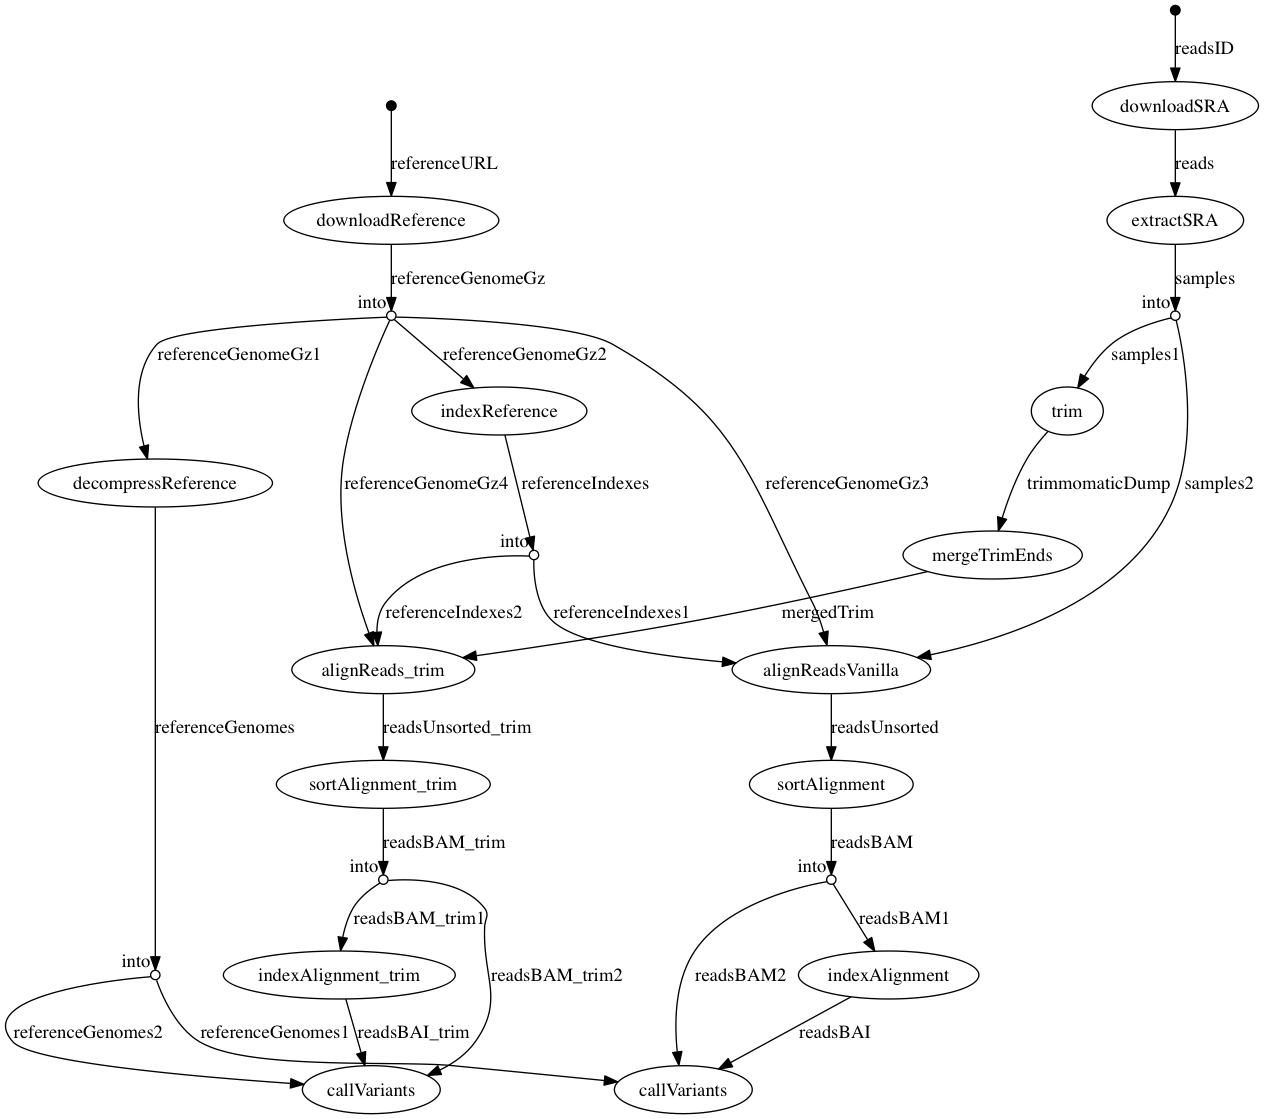
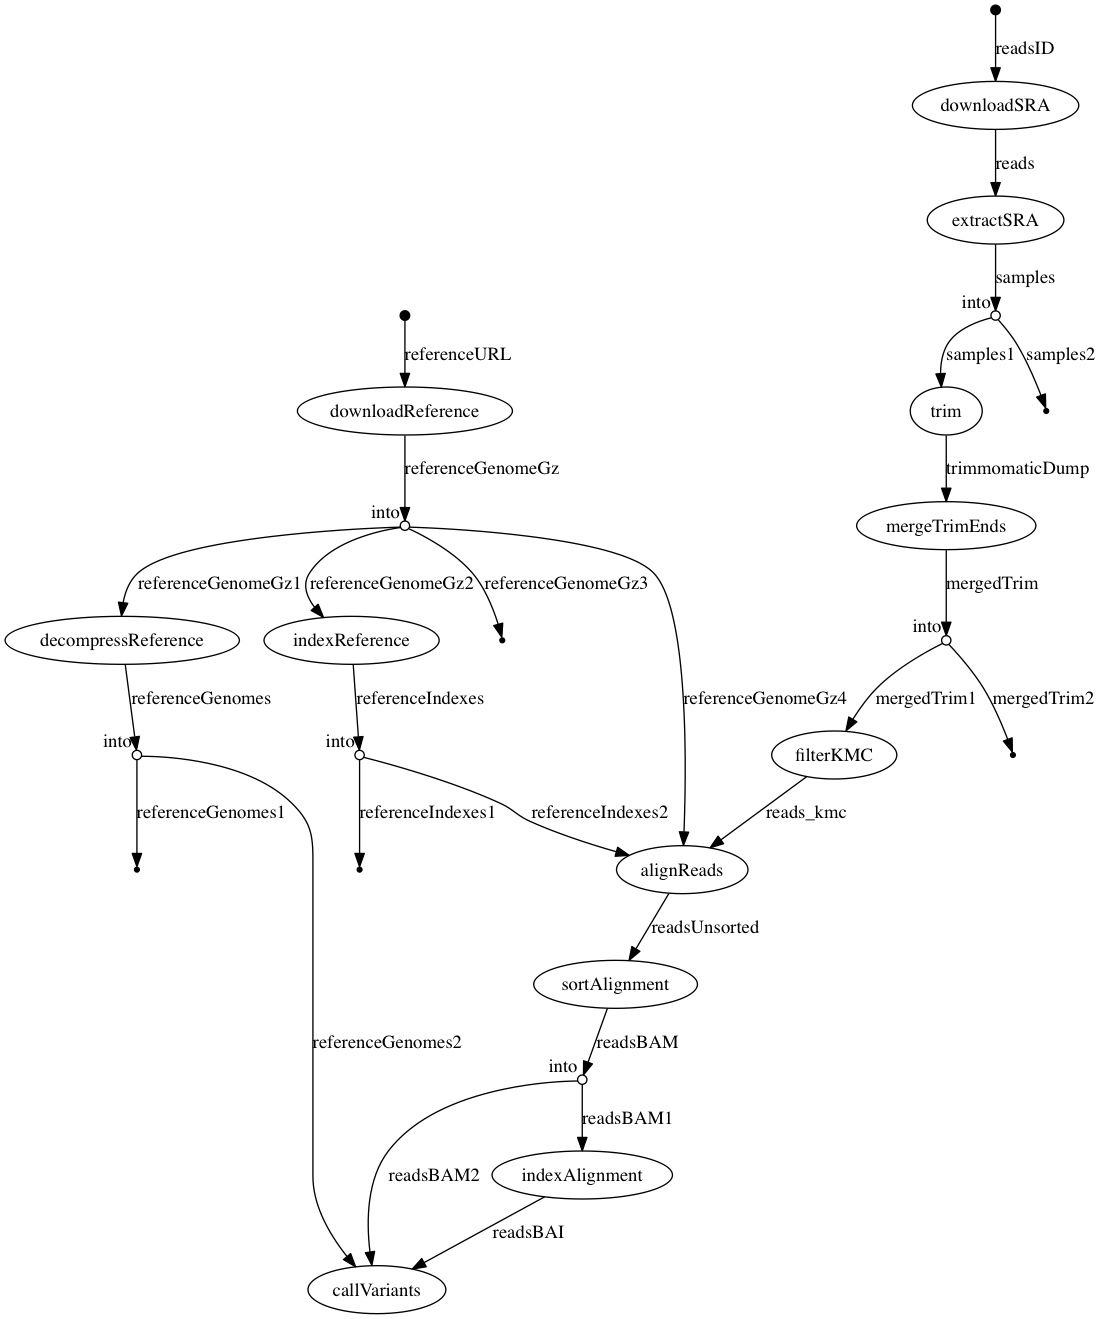
Add kmc and khmer to Nextflow

diff --git a/pipelines/with-nextflow/timeline.html b/pipelines/with-nextflow/timeline.html
@@ -1,0 +1,188 @@
+<!doctype html>
+<!--
+  ~ Copyright (c) 2013-2016, Centre for Genomic Regulation (CRG).
+  ~ Copyright (c) 2013-2016, Paolo Di Tommaso and the respective authors.
+  ~
+  ~   This file is part of 'Nextflow'.
+  ~
+  ~   Nextflow is free software: you can redistribute it and/or modify
+  ~   it under the terms of the GNU General Public License as published by
+  ~   the Free Software Foundation, either version 3 of the License, or
+  ~   (at your option) any later version.
+  ~
+  ~   Nextflow is distributed in the hope that it will be useful,
+  ~   but WITHOUT ANY WARRANTY; without even the implied warranty of
+  ~   MERCHANTABILITY or FITNESS FOR A PARTICULAR PURPOSE.  See the
+  ~   GNU General Public License for more details.
+  ~
+  ~   You should have received a copy of the GNU General Public License
+  ~   along with Nextflow.  If not, see <http://www.gnu.org/licenses/>.
+  -->
+
+<html>
+<head>
+<script type="text/javascript">
+var prot = (("https:" == document.location.protocol) ? "https://" : "http://");
+document.write(unescape("%3Cscript src='" + prot + "code.jquery.com/jquery-latest.min.js' type='text/javascript' %3E%3C/script%3E"));
+document.write(unescape("%3Cscript src='" + prot + "d3js.org/d3.v3.min.js' charset='utf-8' type='text/javascript' %3E%3C/script%3E"));
+document.write(unescape("%3Cscript src='" + prot + "cdn.rawgit.com/nextflow-io/d3-timeline/82622c4cc35bac7283b3a317826b0709ac1ae476/src/d3-timeline.js' type='text/javascript' %3E%3C/script%3E"));
+document.write(unescape("%3Clink href='" + prot + "fonts.googleapis.com/css?family=Lato' rel='stylesheet' type='text/css' %3E%3C/link%3E"));
+</script>
+<style type="text/css">
+* {
+  font-family: 'Lato', 'Helvetica Neue', Arial, Helvetica, sans-serif;
+}
+
+.axis path,
+.axis line {
+fill: none;
+  stroke: black;
+  shape-rendering: crispEdges;
+}
+
+.axis text {
+  font-size: 10px;
+}
+
+div#timeline g text {
+  font-size: 13px;
+}
+
+text.timeline-label {
+  font-size: 13px;
+}
+
+#timeline2 .axis {
+  transform: translate(0px,30px);
+  -ms-transform: translate(0px,30px); /* IE 9 */
+  -webkit-transform: translate(0px,30px); /* Safari and Chrome */
+  -o-transform: translate(0px,30px); /* Opera */
+  -moz-transform: translate(0px,30px); /* Firefox */
+}
+
+.coloredDiv {
+  height:20px; width:20px; float:left;
+}
+
+#footer {
+  padding-top: 3em; color: #bfbfbf; font-size: 13px;
+}
+
+#footer a:visited {
+  color: #bfbfbf;
+  text-decoration: underline;
+}
+</style>
+<script type="text/javascript">
+var handler=null;
+// see https://github.com/mbostock/d3/wiki/Ordinal-Scales#category20c
+var colors = d3.scale.category20c().domain(d3.range(0,20)).range()
+
+function c1(index) { return "#bdbdbd"; }
+function c2(index) { return colors[index % 16]; } // <-- note: uses only the first 16 colors
+
+var elapsed="1.8s"
+var beginningMillis=1465969752582;
+var endingMillis=1465969754430;
+var data=[
+{"label": "alignReads_kmc (1)", "times": [{"starting_time": 1465969753999, "ending_time": 1465969754093, "color":c1(0)}]},
+{"label": "filterKHMER (1)", "times": [{"starting_time": 1465969754012, "ending_time": 1465969754096, "color":c1(1)}]}
+]
+
+
+function getTickFormat() {
+  var MIN = 1000 * 60
+  var HOUR = MIN * 60
+  var DAY = HOUR * 24
+  var delta = (endingMillis - beginningMillis)
+
+  if( delta < 2 * MIN ) {
+    return {
+      format: d3.time.format("%S"),
+      tickTime: d3.time.seconds,
+      tickInterval: 5,
+      tickSize: 6
+    }
+  }
+
+  if( delta < 2 * HOUR ) {
+    return {
+      format: d3.time.format("%M"),
+      tickTime: d3.time.minutes,
+      tickInterval: 5,
+      tickSize: 6
+    }
+  }
+
+  if( delta < 2 * DAY ) {
+    return {
+      format: d3.time.format("%H:%M"),
+      tickTime: d3.time.hours,
+      tickInterval: 1,
+      tickSize: 6
+    }
+  }
+
+  return {
+    format: d3.time.format("%b %e %H:%M"),
+    tickTime: d3.time.hours,
+    tickInterval: 6,
+    tickSize: 6
+  }
+}
+
+function getLabelMargin(scale) {
+    $('<span class="labelSpan" style="display: none"></span>').appendTo('body');
+
+    var labelMargin = 0
+    $.each(data, function (key, value) {
+      labelMargin = Math.max(labelMargin, $('.labelSpan').html(value.label).width());
+    });
+
+    $('.labelSpan').remove();
+
+    return (labelMargin * scale);
+}
+
+function render() {
+  handler=null;
+  $("#timeline").empty()
+  $('#label_elapsed').text(elapsed)
+  $('#label_launch').text( d3.time.format('%d %b %Y %H:%M')(new Date(beginningMillis)) )
+
+  var width = $(window).width();
+  var chart = d3.timeline()
+    .stack() // toggles graph stacking
+    .margin({left:getLabelMargin(0.85), right:100, top:0, bottom:0})
+    .tickFormat( getTickFormat() )
+    .rowSeperators('#f5f5f5')
+    .showTimeAxisTick()
+    ;
+  var svg = d3.select("#timeline").append("svg").attr("width", width).datum(data).call(chart);
+}
+
+function hrz() {
+if( handler != null ) clearTimeout(handler)
+  handler = setTimeout(render, 150);
+}
+
+$(document).ready(render)
+$(window).resize(hrz); // resize the applet on window resize
+</script>
+</head>
+
+<body>
+<div>
+  <h3>Processes execution timeline</h3>
+  <p>
+    Launch time: <span id='label_launch'> </span><br>
+    Elapsed time: <span id='label_elapsed'> </span>
+  </p>
+  <div id="timeline"></div>
+</div>
+
+<div id='footer'>
+  Created with Nextflow -- <a href='http://www.nextflow.io' target='_blank'>http://nextflow.io</a>
+</div>
+</body>
+</html>
